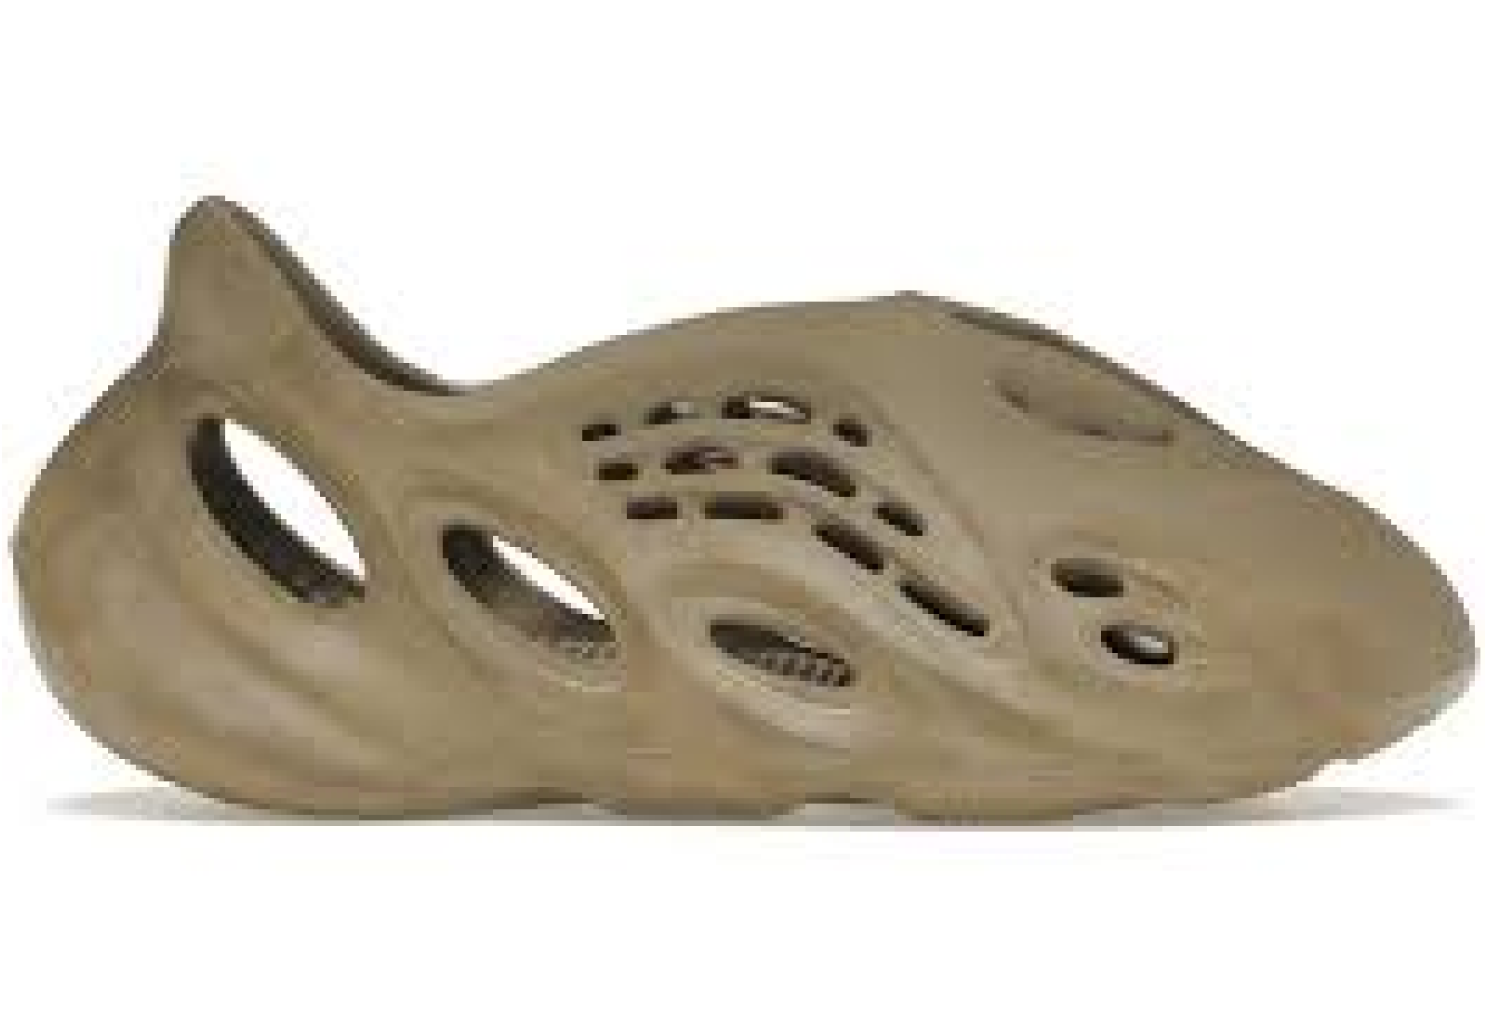
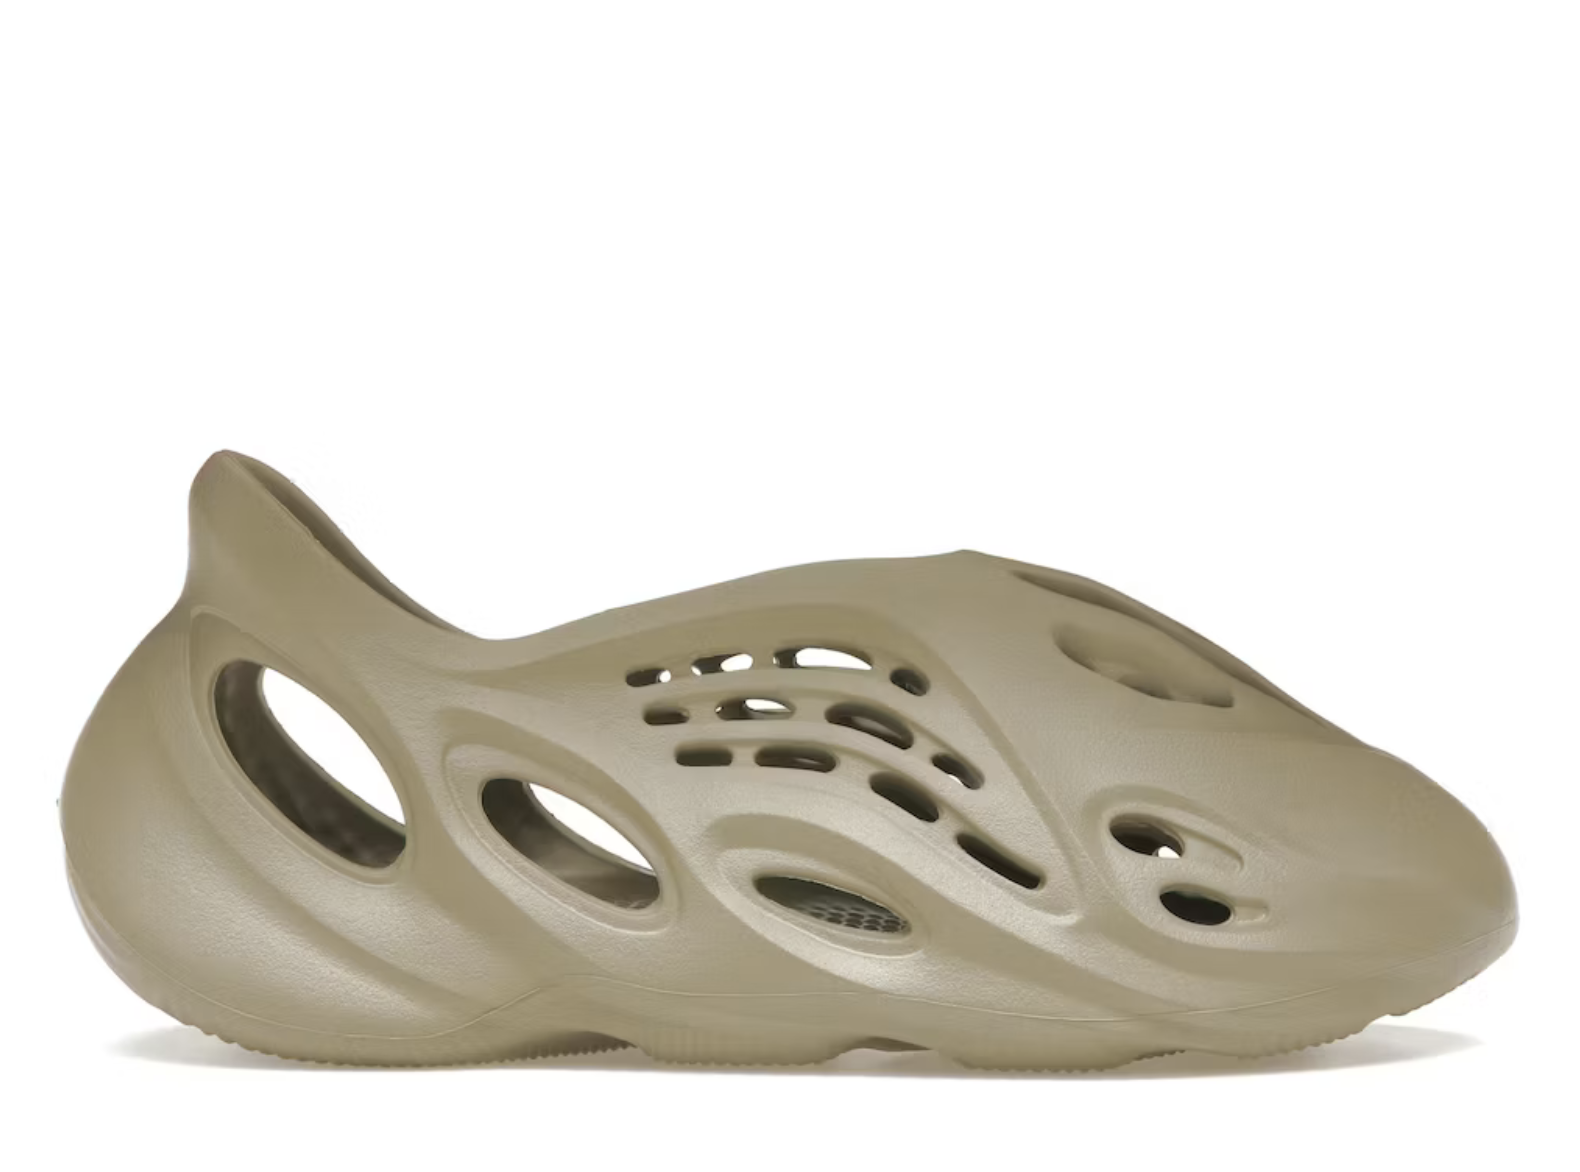
replaced bad adidas yeezy image

diff --git a/index.html b/index.html
@@ -44,7 +44,7 @@
                 </div>
                 <div class="sneaker">
                     <a class="page__link" href="sneaker2.html">
-                        <img alt="Nike Dunk Low SP" src="./images/nike-dunk.png" class="sneaker-image" />
+                        <img alt="Nike Dunk Low SP" src="images/nike-dunk.png" class="sneaker-image" />
                         <div class="sneaker-info">
                             <h3>Nike Dunk Low SP</h3>
                             <p>Nike Dunk Low Orange Blaze Syracuse</p>
@@ -62,7 +62,7 @@
                     </a>
                 </div>
                 <div class="sneaker">
-                    <img alt="adidas Yeezy Foam RNNR" src="./images/adidas-yeezy.png" class="sneaker-image" />
+                    <img style="border-radius: 12px 12px 0px 0px;" alt="adidas Yeezy Foam RNNR" src="./images/adidas-yeezy.png" class="sneaker-image" />
                     <div class="sneaker-info">
                         <h3>adidas Yeezy Foam RNNR</h3>
                         <p>Stone Sage</p>

diff --git a/style.css b/style.css
@@ -305,7 +305,7 @@ gap: 48px;
 align-self: stretch;
 }
 
-@media screen and (max-width:700px) {
+@media screen and (max-width:768px) {
     .header-container{
         flex-direction: column;
         align-items: center;
